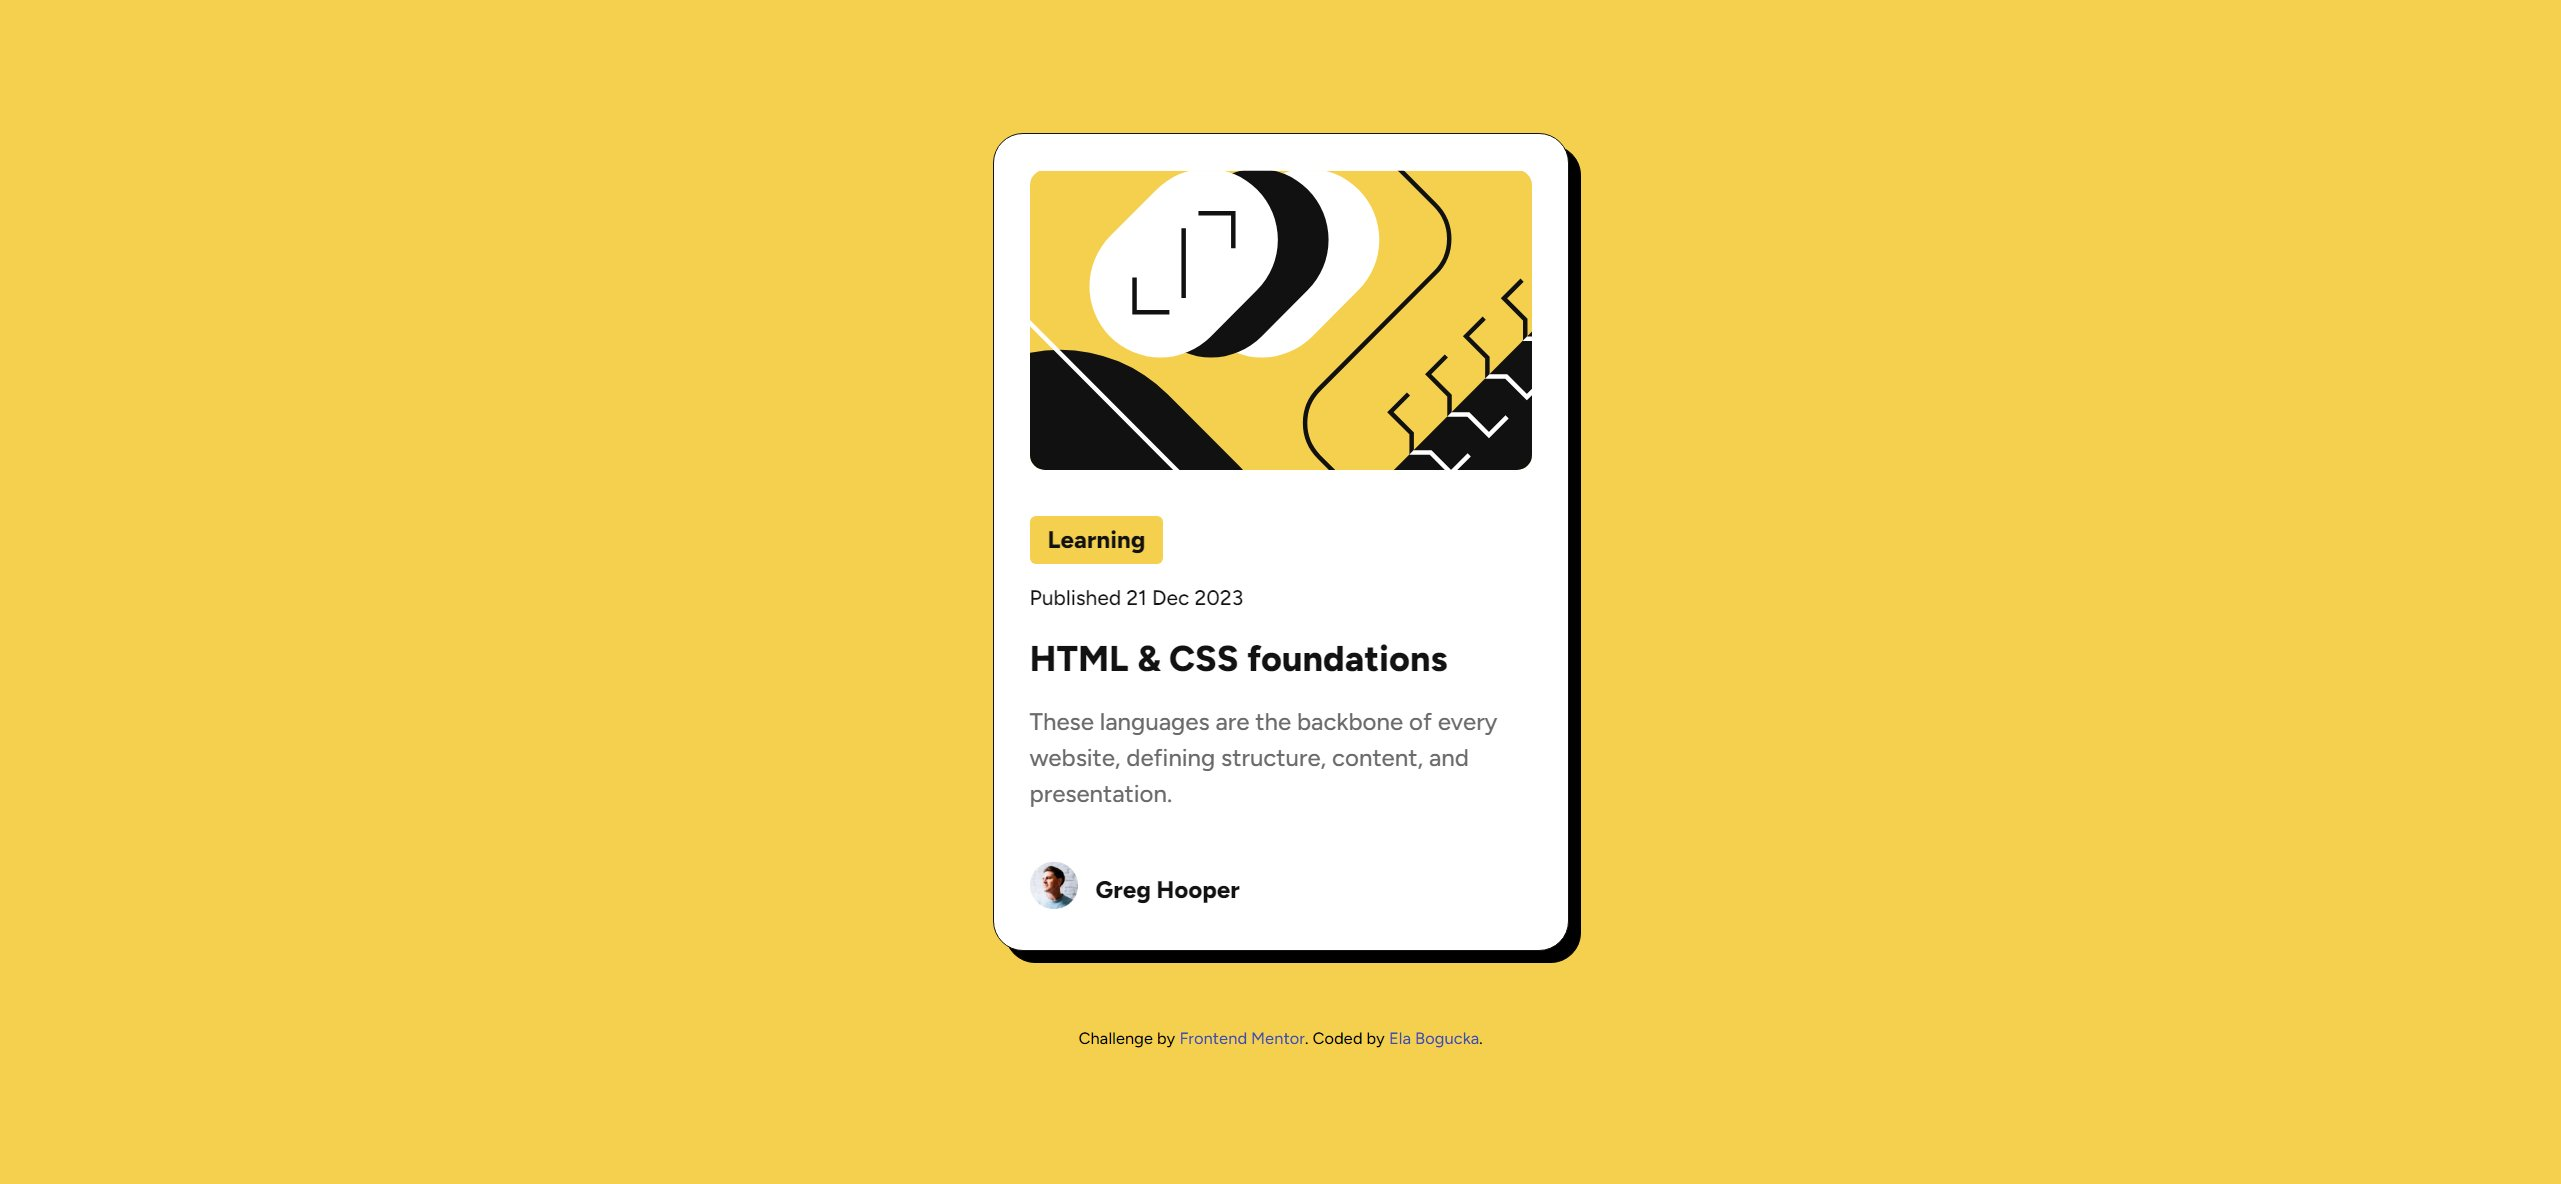
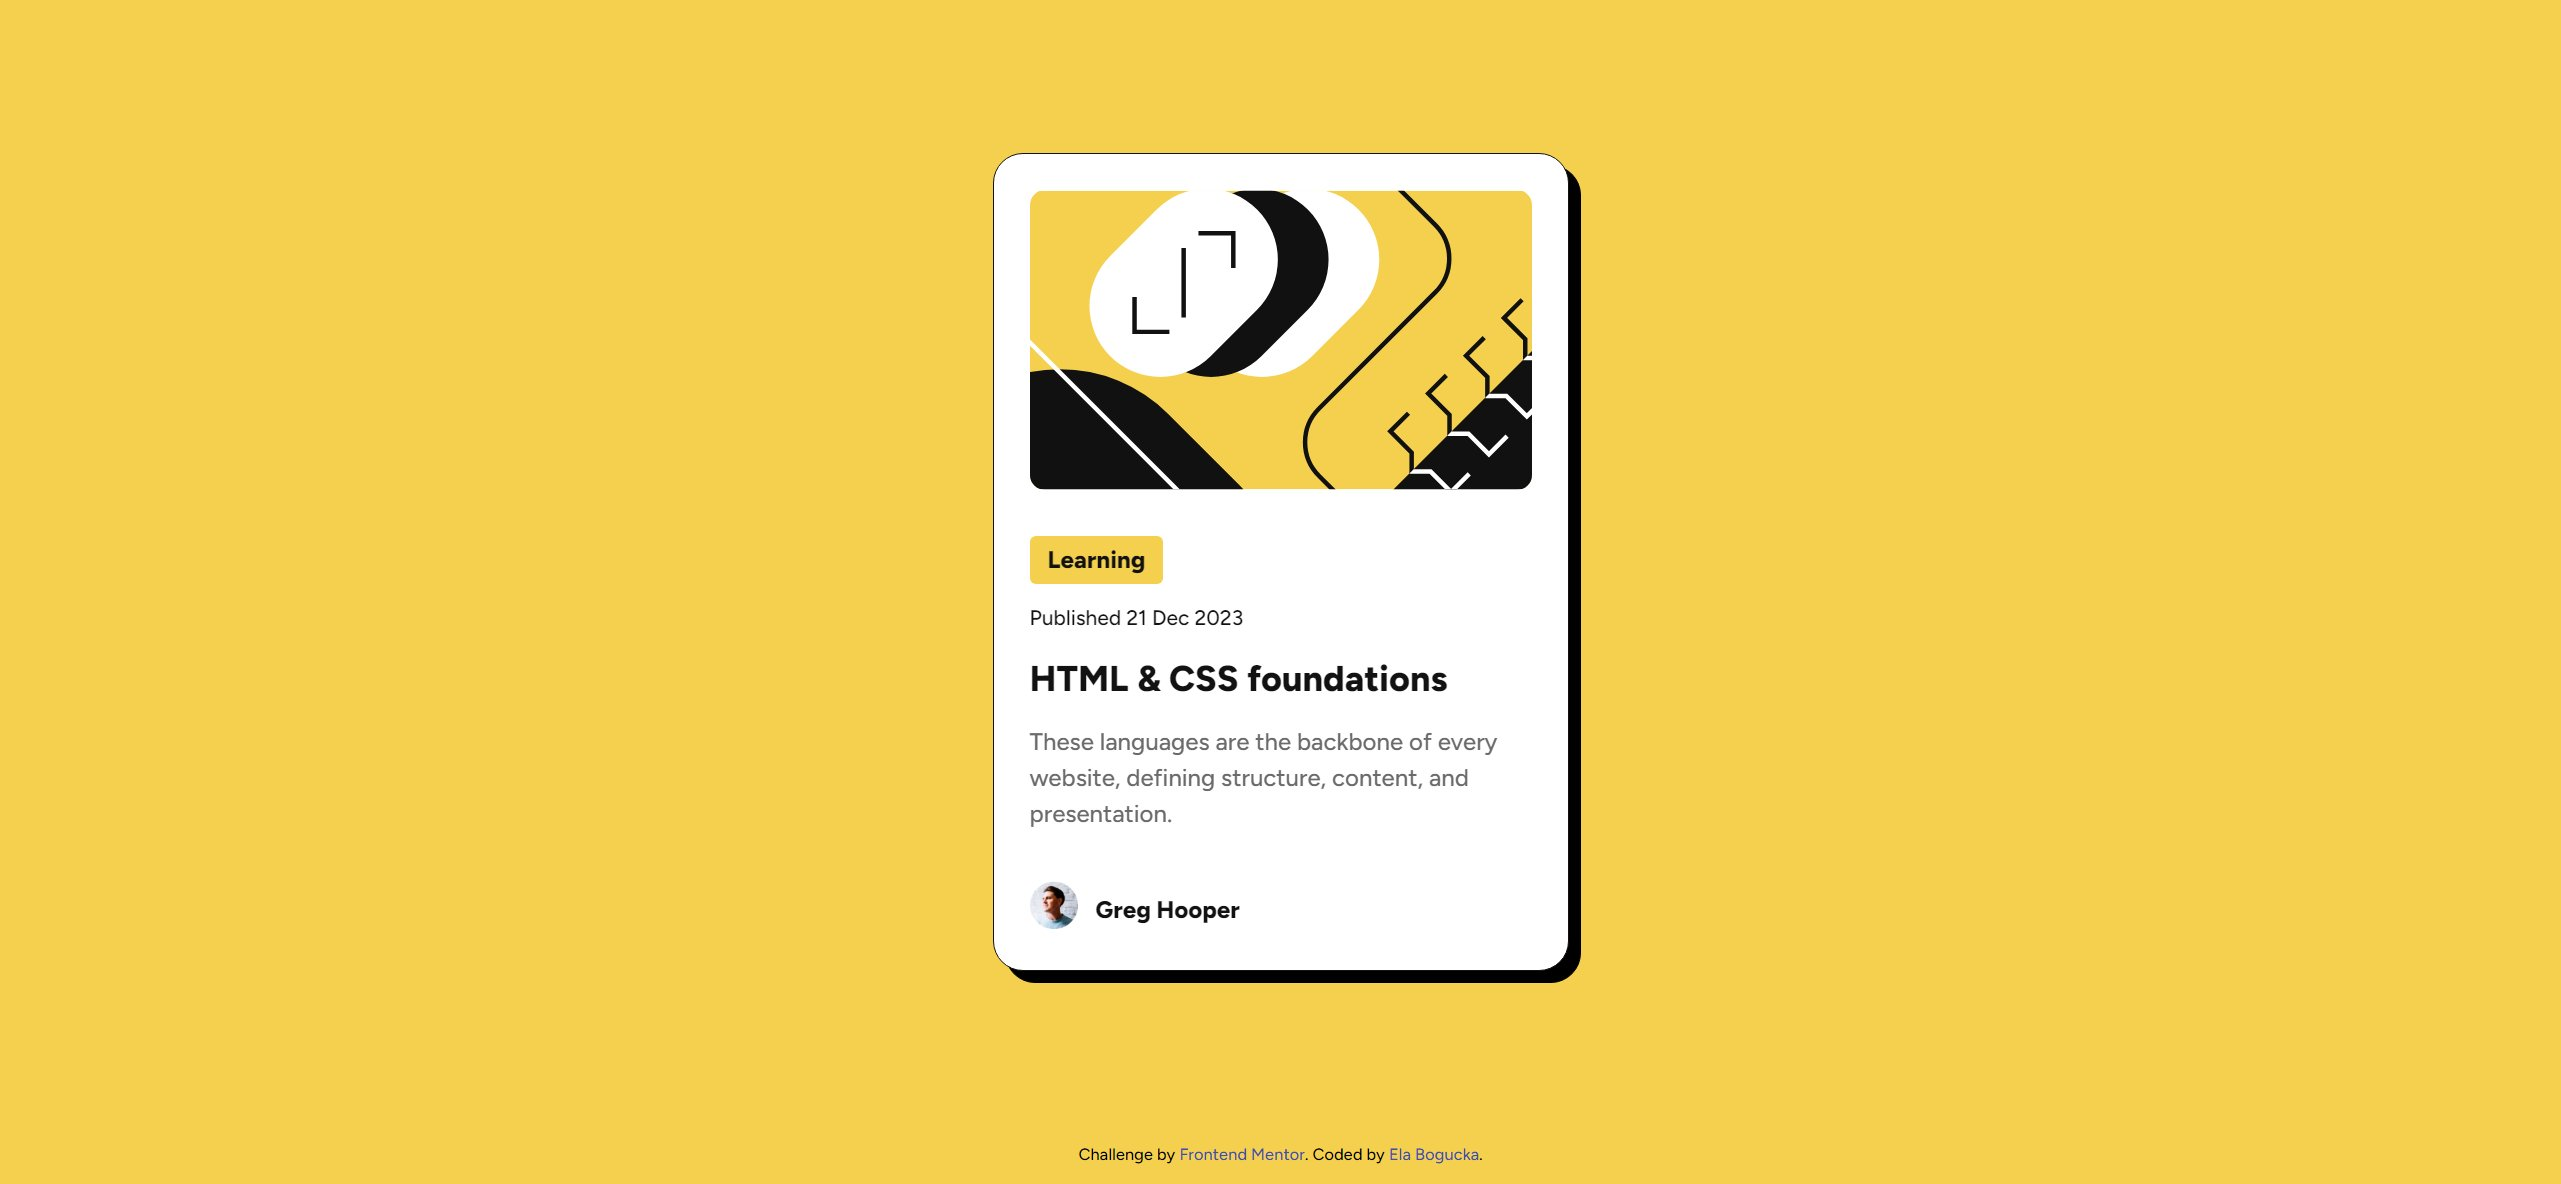
Clean up and fix the attribution's position

Changed region(s): [[0.3749, 0.0938, 0.6248, 0.8438], [0.4061, 0.9688, 0.5935, 1.0], [0.4373, 0.875, 0.5935, 0.9062]]

diff --git a/style.css b/style.css
@@ -10,6 +10,7 @@
     --white: hsl(0, 0%, 100%);
     --gray-500: hsl(0, 0%, 42%);
     --gray-950: hsl(0, 0%, 7%);
+    --attribution-color: hsl(228, 45%, 44%);
 }
 
 * {
@@ -21,7 +22,6 @@
 body {
     display: flex;
     flex-direction: column;
-    justify-content: center;
     align-items: center;
     min-height: 100vh;
     background-color: var(--yellow);
@@ -30,7 +30,13 @@ body {
     line-height: 1.5;
     /* 14px - 15px */
     font-size: clamp(0.875rem, 0.8393rem + 0.1786vw, 1rem);
-    letter-spacing: 0px;
+}
+
+main {
+    flex: 1;
+    display: flex;
+    justify-content: center;
+    align-items: center;
 }
 
 h1 {
@@ -56,19 +62,17 @@ a:hover {
 .tag:hover {
     background-color: var(--gray-950);
 }
+
 .card {
     display: flex;
     flex-direction: column;
     justify-content: center;
-    align-items: left;
     background-color: var(--white);
     border-radius: 20px;
     width: 327px;
     padding: 24px;
     filter: drop-shadow(8px 8px #000000);
-    border-style: solid;
-    border-color: var(--gray-950);
-    border-width: 1px;
+    border: 1px solid var(--gray-950);
 }
 
 .image {
@@ -119,13 +123,14 @@ a:hover {
 }
 
 .attribution {
-    margin-top: 50px;
     font-size: 11px;
-    text-align: center;
+    height: 2.5rem;
+    margin-top: auto;
+    align-content: center;
 }
 
 .attribution a {
-    color: hsl(228, 45%, 44%);
+    color: var(--attribution-color);
 }
 
 @media screen and (min-width: 400px) {

diff --git a/index.html b/index.html
@@ -31,11 +31,9 @@
       </div>
     </div>
   </main>
-  <footer>
-    <div class="attribution">
-      Challenge by <a href="https://www.frontendmentor.io?ref=challenge" target="_blank">Frontend Mentor</a>.
-      Coded by <a href="https://github.com/ebogucka">Ela Bogucka</a>.
-    </div>
+  <footer class="attribution">
+    Challenge by <a href="https://www.frontendmentor.io?ref=challenge" target="_blank">Frontend Mentor</a>.
+    Coded by <a href="https://github.com/ebogucka">Ela Bogucka</a>.
   </footer>
 </body>
 

diff --git a/README.md b/README.md
@@ -59,5 +59,5 @@ h1 {
 
 ## Author
 
-- Website - [StronaFirmy.pl](https://stronafirmy.pl)
+- GitHub - [@ebogucka](https://github.com/ebogucka)
 - Frontend Mentor - [@ebogucka](https://www.frontendmentor.io/profile/ebogucka)
